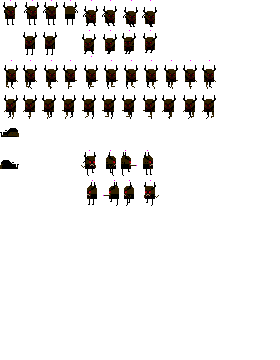
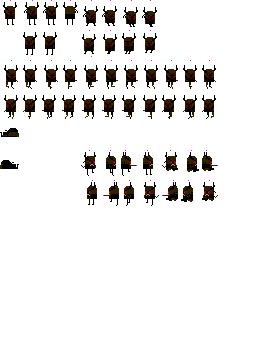
Slightly redesigned demolishers appearing system.

Changed region(s): [[0.5714, 0.4278, 0.7714, 0.5806]]

diff --git a/actors_description.py b/actors_description.py
@@ -491,8 +491,42 @@ demon_2 = {
             'sound': None, 'sound at frames': (1, 4), 'repeat from frame': 0
         },
         'whip right': {
+            'repeat': False,
+            # 'interruptable': True,
+            'sequence': (74,74,74,75,76,76,76,77,75,74,
+                         78,78,78,79,80,80,80,79,79,79),  # 0 - 474, 74, 74, 74, 75, 75),  # 5 - 9
+            # 'sequence': (74,74,74,75,76,76,76,77),  # 0 - 474, 74, 74, 74, 75, 75),  # 5 - 9
+            'speed': 8,
+            'activity at frames': {
+                4: {
+                    'sound': True,
+                    'demolisher': True
+                },
+                14: {
+                    'sound': True,
+                    'demolisher': True
+                },
+                },
+            # 'demolisher offset': {
+            #     1: (sprites['demon 2 76']['demolisher snap point'][0],
+            #         sprites['demon 2 76']['demolisher snap point'][1]),
+            #     # -1: (-65, 60),
+            #     # 1: (65, 60),
+            #     # -1: (-65, 60),
+            # },
+            'repeat from frame': 0
+        },
+        'whip left': {
             'repeat': False, 'interruptable': True,
-            'sequence': (74,74,74,75,76,76,76,77),  # 0 - 474, 74, 74, 74, 75, 75),  # 5 - 9
+            'sequence': (91,91,91,90,89,89,89,88,90,91,
+                         94,94,94,93,92,92,92,93,93,93),  # 0 - 474, 74, 74, 74, 75, 75),  # 5 - 9
+            # 74,74,74,74,74,  # 5 - 9
+            # 74,74,74,75,75,  # 10 - 14
+            # 74,74,74,74,74,  # 15 - 19
+            # 74,74,74,74,74,  # 20 - 24
+            # 74,74,74,75,75), # 25 - 29
+            # 'demolisher offset': (46, 36),
+            # 'sequence': (91,91,91,90,89,89,89,88),  # 0 - 474, 74, 74, 74, 75, 75),  # 5 - 9
             # 74,74,74,74,74,  # 5 - 9
             # 74,74,74,75,75,  # 10 - 14
             # 74,74,74,74,74,  # 15 - 19
@@ -505,28 +539,7 @@ demon_2 = {
                     'sound': True,
                     'demolisher': True
                 },
-                },
-            'demolisher offset': {
-                1: (sprites['demon 2 76']['demolisher snap point'][0],
-                    sprites['demon 2 76']['demolisher snap point'][1]),
-                # -1: (-65, 60),
-                # 1: (65, 60),
-                # -1: (-65, 60),
-            },
-            'repeat from frame': 0
-        },
-        'whip left': {
-            'repeat': False, 'interruptable': True,
-            'sequence': (91,91,91,90,89,89,89,88),  # 0 - 474, 74, 74, 74, 75, 75),  # 5 - 9
-            # 74,74,74,74,74,  # 5 - 9
-            # 74,74,74,75,75,  # 10 - 14
-            # 74,74,74,74,74,  # 15 - 19
-            # 74,74,74,74,74,  # 20 - 24
-            # 74,74,74,75,75), # 25 - 29
-            # 'demolisher offset': (46, 36),
-            'speed': 8,
-            'activity at frames': {
-                4: {
+                14: {
                     'sound': True,
                     'demolisher': True
                 },
@@ -708,24 +721,24 @@ player_jake = {
     'blood color': (255, 0, 0),
     # 'height': 190,
     # 'width': 49,
-    'body state': {
-        'viewing range': 600,
-        'regeneration ability': 0.001,
-        'blood volume': 15000,
-        'blood volume replenish': .01,
-        'stamina replenish': 1,
-        'consciousness replenish': 10,
-        'consciousness threshold': 10,
-        'bleeding reduce': .01,  #
-        'bleeding resistance': 0,  # Reduce bleeding, in percents.
-        'max blood volume': 15000,
-        'max stamina': 120,
-        'max fatigue': 100,
-        'max consciousness': 1000,
-        'luck': 5,
-        'strength': 25,
-        'weight': 70,  # Kilos.
-    },
+    # 'body state': {
+    #     'viewing range': 600,
+    #     'regeneration ability': 0.001,
+    #     'blood volume': 15000,
+    #     'blood volume replenish': .01,
+    #     'stamina replenish': 1,
+    #     'consciousness replenish': 10,
+    #     'consciousness threshold': 10,
+    #     'bleeding reduce': .01,  #
+    #     'bleeding resistance': 0,  # Reduce bleeding, in percents.
+    #     'max blood volume': 15000,
+    #     'max stamina': 120,
+    #     'max fatigue': 100,
+    #     'max consciousness': 1000,
+    #     'luck': 5,
+    #     'strength': 25,
+    #     'weight': 70,  # Kilos.
+    # },
     'gravity affected': True,
     'body': {
         'head': {

diff --git a/entity.py b/entity.py
@@ -21,7 +21,8 @@ class Entity(object):
         self.performing_an_interruptable_deed: bool = False
         self.think_type: str = ''
         self.summon_demolisher = False
-        self.summoned_demolisher_description = dict()
+        self.summoned_demolishers_description = list()
+        # self.summoned_demolisher_description = dict()
         self.summon_particle = False
         self.summoned_particle_descriptions = list()
         # self.summon_demolisher_at_frame = 0
@@ -374,13 +375,22 @@ class Entity(object):
                     # print(f'[process active frames] make step at frame {self.frame_number}')
                 elif action == 'demolisher':
                     # print(f'[process active frames] make attack at frame {self.frame_number}')
-                    if self.summon_demolisher_counter < len(self.current_weapon['demolishers']) - 1:
-                        self.summon_demolisher = True
-                        self.summon_demolisher_counter += 1
-                        self.summoned_demolisher_description = self.current_weapon['demolishers'][self.summon_demolisher_counter]
-                        self.summoned_demolisher_description['snap to actor'] = self.id
-                        self.summoned_demolisher_description['parent'] = self.name
-                        self.summoned_demolisher_description['snapping offset'] = self.animations[self.current_animation]['demolisher offset'][self.look]
+                    self.summon_demolisher = True
+                    for d in self.current_weapon['demolishers']:
+                        # self.summon_demolisher_counter += 1
+                        d['snap to actor'] = self.id
+                        d['parent'] = self.name
+                        d['snapping offset'] = sprites[self.name + ' ' + str(self.animation_sequence[self.frame_number])]['demolisher snap point']
+                        self.summoned_demolishers_description.append(d)
+                        # self.summoned_demolisher_description['snapping offset'] = self.animations[self.current_animation]['demolisher offset'][self.look]
+                    # if self.summon_demolisher_counter < len(self.current_weapon['demolishers']) - 1:
+                    #     self.summon_demolisher = True
+                    #     self.summon_demolisher_counter += 1
+                    #     self.summoned_demolisher_description = self.current_weapon['demolishers'][self.summon_demolisher_counter]
+                    #     self.summoned_demolisher_description['snap to actor'] = self.id
+                    #     self.summoned_demolisher_description['parent'] = self.name
+                    #     self.summoned_demolisher_description['snapping offset'] = sprites[self.name + ' ' + str(self.animation_sequence[self.frame_number])]['demolisher snap point']
+                    #     # self.summoned_demolisher_description['snapping offset'] = self.animations[self.current_animation]['demolisher offset'][self.look]
                 elif action == 'sound':
                     snd = self.animations[self.current_animation]['activity at frames'][self.frame_number]
                     # print(f'[entity.process_activity_at_current_animation_frame] make {snd} at frame {self.frame_number}')

diff --git a/world.py b/world.py
@@ -756,7 +756,9 @@ class World(object):
 
             if actor.summon_demolisher:
                 actor.summon_demolisher = False
-                self.add_demolisher(actor.summoned_demolisher_description)
+                for d in actor.summoned_demolishers_description:
+                    self.add_demolisher(d)
+                # self.add_demolisher(actor.summoned_demolisher_description)
 
             if actor.summon_particle:
                 actor.summon_particle = False
